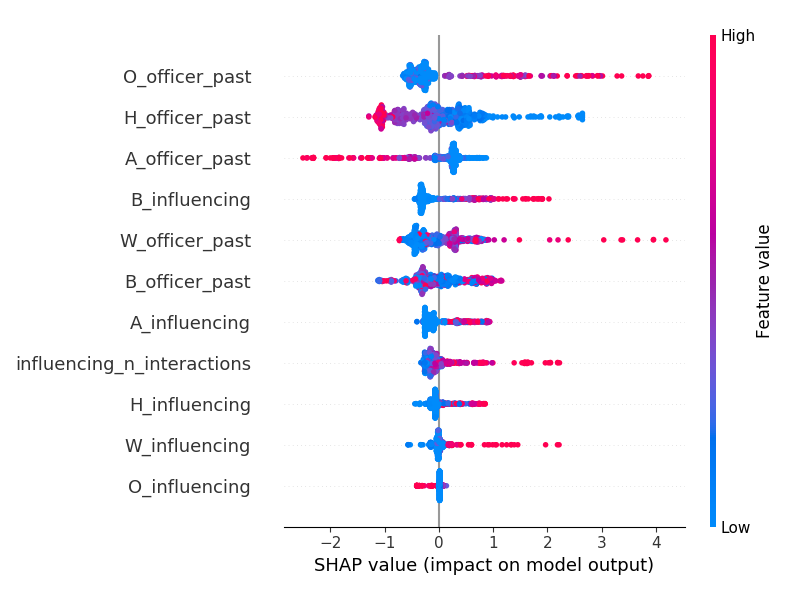
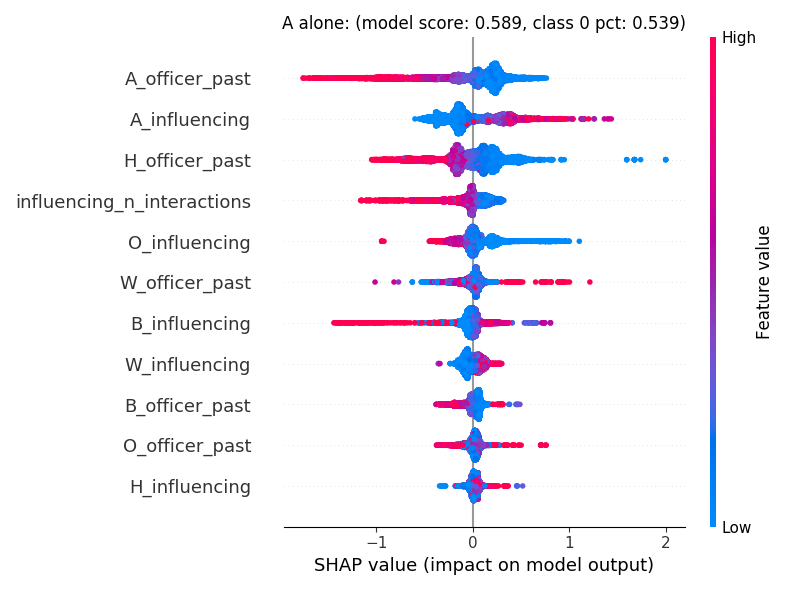
adding detail to charts

diff --git a/analysis/analysis.py b/analysis/analysis.py
@@ -64,12 +64,13 @@ def query_stops_data(demographic_field_name):
 			""" + demographic_field_name + """,
 			stop_type
 		FROM policing.vehical_pedestrian_stops
-		WHERE stop_type = 'PED'
+		WHERE stop_type = 'VEH'
 		AND stop_date NOT IN ('', 'nan')
 		AND stop_date > '2010/01/01'
+		AND stop_date < '2020/05/01'
 		ORDER BY stop_date ASC
 
-		LIMIT 3000000
+		LIMIT 8000000
 	"""
 	cur.execute(sql)
 	return con, cur
@@ -270,22 +271,31 @@ def split_data_into_train_and_eval(data_x, data_y, data_c):
 	return data_x_train, data_y_train, data_x_eval, data_y_eval, officers_train, officers_eval
 
 
-def fit_model(data_x_train, data_y_train, data_y_eval, officers_train, officers_eval):
+def describe_train_eval_split(data_y_train, data_y_eval, officers_train, officers_eval):
+	train_class_0_pct = len([ 1 for y in data_y_train if y == 0 ]) / float(len(data_y_train))
+	train_class_1_pct = len([ 1 for y in data_y_train if y == 1 ]) / float(len(data_y_train))
+	eval_class_0_pct = len([ 1 for y in data_y_eval if y == 0 ]) / float(len(data_y_eval))
+	eval_class_1_pct = len([ 1 for y in data_y_eval if y == 1 ]) / float(len(data_y_eval))	
+
 	print('\ndataset train details:')
 	print('\tsize: ' + str(len(data_y_train)))
 	print('\tnumber of officers: ' + str(len(officers_train)))
-	print('\tclass 0: ' + str(len([ 1 for y in data_y_train if y == 0 ]) / float(len(data_y_train))))
-	print('\tclass 1: ' + str(len([ 1 for y in data_y_train if y == 1 ]) / float(len(data_y_train))))
+	print('\tclass 0: ' + str(train_class_0_pct))
+	print('\tclass 1: ' + str(train_class_1_pct))
 
 	print('\ndataset eval details:') 
 	print('\tsize: ' + str(len(data_y_eval))) 
 	print('\tnumber of officers: ' + str(len(officers_eval)))
-	print('\tclass 0: ' + str(len([ 1 for y in data_y_eval if y == 0 ]) / float(len(data_y_eval))))
-	print('\tclass 1: ' + str(len([ 1 for y in data_y_eval if y == 1 ]) / float(len(data_y_eval))))
+	print('\tclass 0: ' + str(eval_class_0_pct))
+	print('\tclass 1: ' + str(eval_class_1_pct))
 
+	return eval_class_0_pct, eval_class_1_pct
+
+
+def fit_model(data_x_train, data_y_train):
 	model = GradientBoostingClassifier(n_estimators=100)
-	#model = GradientBoostingRegressor(n_estimators=100)
 	model.fit(data_x_train, data_y_train)
+	print(model)
 	return model
 
 
@@ -294,22 +304,23 @@ def evaluate_model(model, data_x_eval, data_y_eval, field_order):
 	importances = { field_order[i]: importances[i] for i in range(0,len(field_order)) }
 	importances = sorted(importances.items(), key=lambda x: x[1], reverse=True)
 	score = model.score(data_x_eval, data_y_eval)
-	print(model)
 	print(score)
-	pprint(importances)
+	return score
 
 
-def create_model_shap_plots(model, data_x_train, field_order, demographic, officer_alone_bool):
+def create_model_shap_plots(model, data_x_train, score, eval_class_0_pct, eval_class_1_pct, field_order, demographic, officer_alone_bool):
 	explainer = shap.TreeExplainer(model)
 	shap_values = explainer.shap_values(data_x_train)
 	alone_str = 'alone' if officer_alone_bool == True else 'all'
 
 	fig = shap.summary_plot(shap_values, data_x_train, feature_names=field_order)
+	plt.title(demographic + ' ' + alone_str + ': (model score: ' + str(round(score,3)) + ', class 0 pct: ' + str(round(eval_class_0_pct,3)) + ')') 
 	plt.tight_layout()
 	plt.savefig(os.path.join('plots', demographic + '_' + alone_str + '_shap_summary.png'))
 	plt.clf()
 
 	shap.dependence_plot(demographic + '_influencing', shap_values, data_x_train, feature_names=field_order, interaction_index=demographic + '_officer_past')
+	plt.title(demographic + ' ' + alone_str + ': (model score: ' + str(round(score,3)) + ', class 0 pct: ' + str(round(eval_class_0_pct,3)) + ')')
 	plt.tight_layout()
 	plt.savefig(os.path.join('plots', demographic + '_' + alone_str + '_shap_dependence.png'))
 	plt.clf()
@@ -323,7 +334,7 @@ def create_model_shap_plots(model, data_x_train, field_order, demographic, offic
 # parsing input arguments
 demographic_mode, demographic_field_name, demographics_considered, officer_alone_bool = parse_input_arguments(sys.argv)
 
-# querying pedestrian stops by LAPD
+# querying stops by LAPD
 con, cur = query_stops_data(demographic_field_name)
 
 # initializing data structures
@@ -468,14 +479,17 @@ for demographic in demographics_considered:
 	data_x_train, data_y_train, data_x_eval, data_y_eval, officers_train, officers_eval = split_data_into_train_and_eval(data_x, data_y, data_c)
 	data_x = []; data_y = []; data_c = []
 
+	# describing details of train and evaluation sets
+	eval_class_0_pct, eval_class_1_pct = describe_train_eval_split(data_y_train, data_y_eval, officers_train, officers_eval)
+
 	# fitting model
-	model = fit_model(data_x_train, data_y_train, data_y_eval, officers_train, officers_eval)
+	model = fit_model(data_x_train, data_y_train)
 
-	# evaluate model
-	evaluate_model(model, data_x_eval, data_y_eval, field_order)
+	# evaluating model
+	score = evaluate_model(model, data_x_eval, data_y_eval, field_order)
 
-	# create model shap plots
-	create_model_shap_plots(model, data_x_train, field_order, demographic, officer_alone_bool)
+	# creating model shap plots
+	create_model_shap_plots(model, data_x_train, score, eval_class_0_pct, eval_class_1_pct, field_order, demographic, officer_alone_bool)
 
 
 
